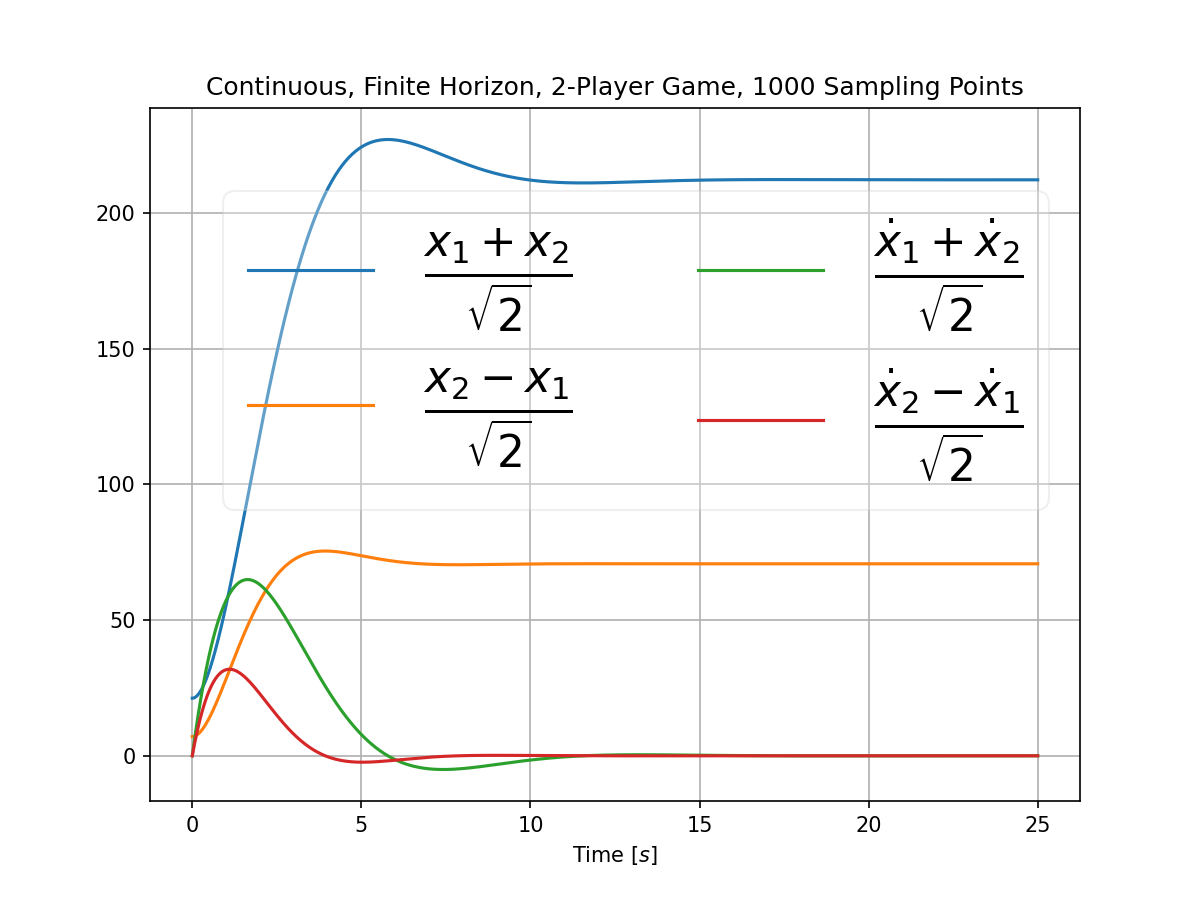
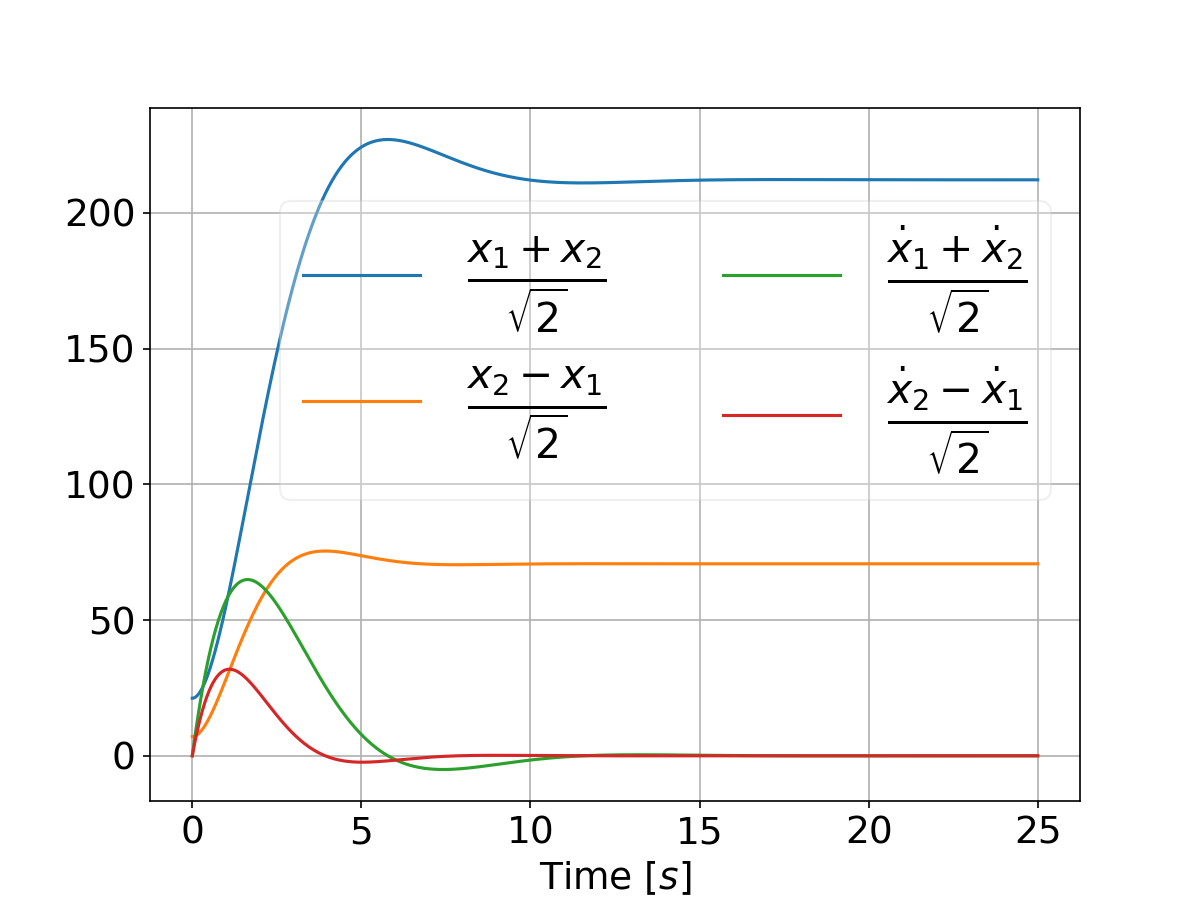
improved figures

diff --git a/src/PyDiffGame/PyDiffGame.py b/src/PyDiffGame/PyDiffGame.py
@@ -445,7 +445,15 @@ class PyDiffGame(ABC, Callable, Sequence):
         self._fig = plt.figure(dpi=150)
         self._fig.set_size_inches(8, 6)
         plt.plot(t[:temporal_variables.shape[0]], temporal_variables)
-        plt.xlabel('Time $[s]$')
+        plt.xlabel('Time $[s]$', fontsize=18)
+        plt.xticks(fontsize=18)
+        plt.yticks(fontsize=18)
+        plt.subplots_adjust(wspace=0)
+
+        if not is_P and max(np.max(temporal_variables, axis=0)) > 1e3:
+            plt.ticklabel_format(style='sci', axis='y', scilimits=(0, 0))
+            plt.gca().yaxis.get_offset_text().set_size(18)
+
 
         if title:
             plt.title(title)
@@ -467,10 +475,10 @@ class PyDiffGame(ABC, Callable, Sequence):
 
             plt.legend(labels=labels,
                        loc='upper left' if is_P else 'right',
-                       ncol=2,
-                       prop={'size': 14},
-                       bbox_to_anchor=(1, 0.75),
-                       # framealpha=0.3
+                       ncol=4 if self._n > 8 else 2,
+                       prop={'size': 26},
+                       bbox_to_anchor=(1, 0.55),
+                       framealpha=0.3
                        )
 
         plt.grid()
